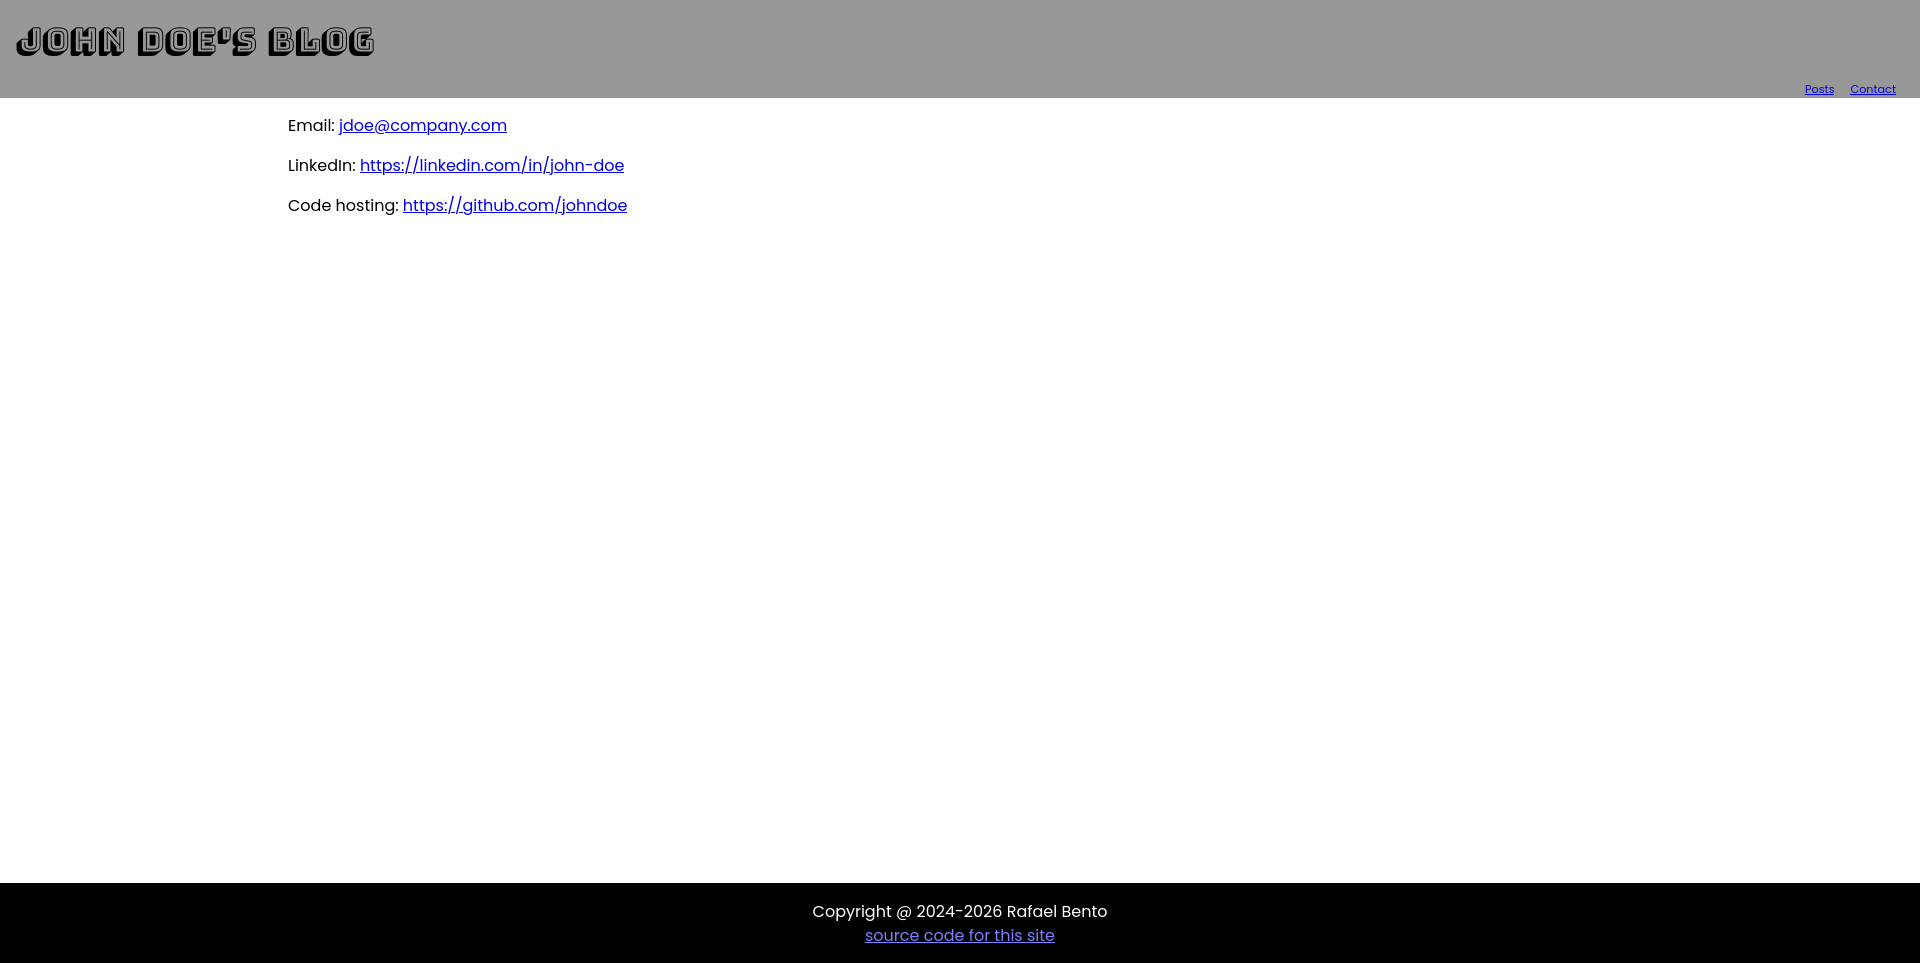
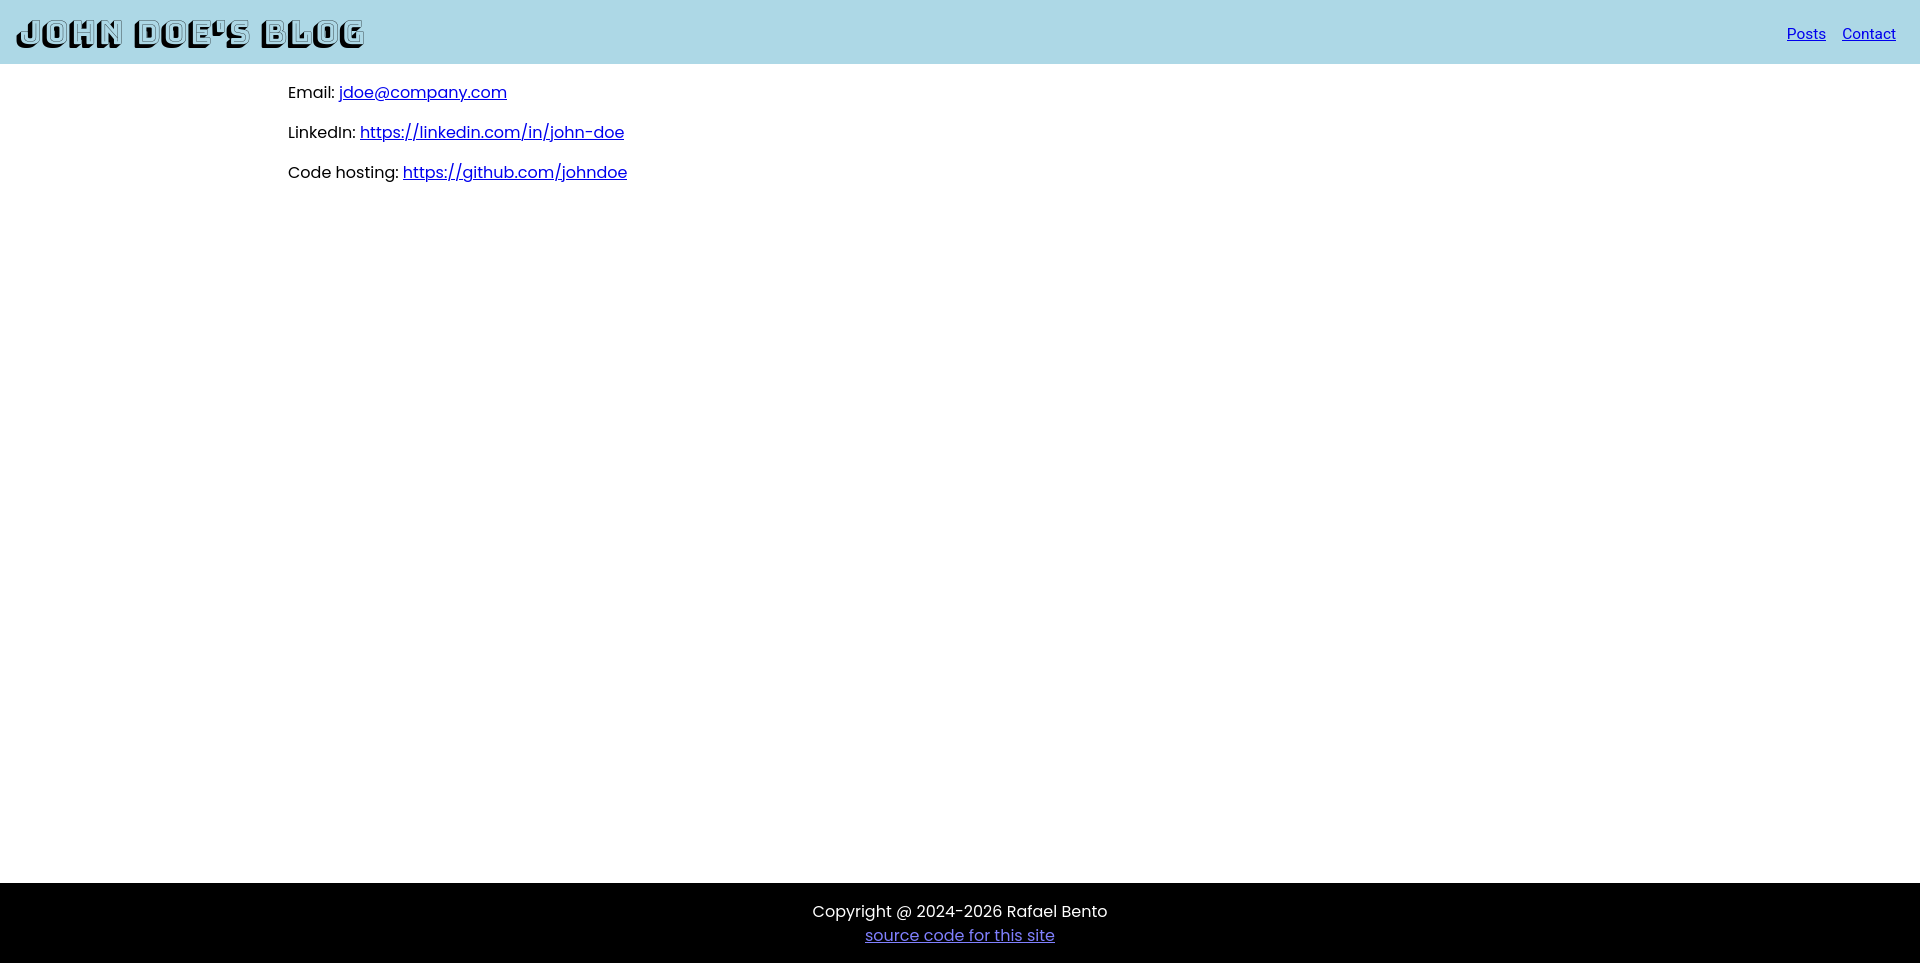
Use mat-toolbar in header

Changed region(s): [[0.0, 0.0, 1.0, 0.2181]]

diff --git a/src/app/components/header/header.html b/src/app/components/header/header.html
@@ -1,5 +1,16 @@
-<h1 class="logo">John Doe's Blog</h1>
-<nav>
-  <span class="toolbar-link"><a routerLink="/" accesskey="P">Posts</a></span>
-  <span class="toolbar-link"><a routerLink="contact" accesskey="C">Contact</a></span>
-</nav>
+<mat-toolbar>
+  <mat-toolbar-row>
+    <span class="header__logo">John Doe's Blog</span>
+    <span class="header__spacer"></span>
+    <nav class="header__nav header__nav--desktop">
+      <a routerLink="/" accesskey="P"><span>Posts</span></a>
+      <a routerLink="contact" accesskey="C"><span>Contact</span></a>
+    </nav>
+  </mat-toolbar-row>
+  <mat-toolbar-row class="header__row--mobile">
+    <nav class="header__nav">
+      <a routerLink="/" accesskey="P"><span>Posts</span></a>
+      <a routerLink="contact" accesskey="C"><span>Contact</span></a>
+    </nav>
+  </mat-toolbar-row>
+</mat-toolbar>

diff --git a/src/app/components/header/header.css b/src/app/components/header/header.css
@@ -1,24 +1,37 @@
-:host {
-  margin: 0;
-  padding: 0 16px;
-  background-color: rgb(152, 152, 152);
-}
-
 @font-face {
   font-family: "Bungee Shade";
   src: url("../../../assets/fonts/BungeeShade-Regular.woff2") format('woff2');
 }
 
-.logo {
+.header__logo {
   font-family: "Bungee Shade", sans-serif;
+  font-size: xx-large;
 }
 
-nav {
-  text-align: right;
+.header__nav a {
   font-size: 70%;
-  white-space: nowrap;
+  padding: 0px 8px;
 }
 
-.toolbar-link a {
-  padding: 0px 8px;
+.header__nav a:hover {
+  color: red;
+}
+
+.header__row--mobile {
+  display: none;
+}
+
+@media (max-width: 768px) {
+  .header__nav--desktop {
+    display: none;
+  }
+
+  .header__row--mobile {
+    display: flex;
+    justify-content: center;
+  }
+}
+
+.header__spacer {
+  flex: 1 1 auto;
 }

diff --git a/src/app/components/header/header.ts b/src/app/components/header/header.ts
@@ -1,9 +1,10 @@
 import { Component } from '@angular/core';
 import { RouterLink } from '@angular/router';
+import {MatToolbarModule} from '@angular/material/toolbar';
 
 @Component({
   selector: 'app-header',
-  imports: [RouterLink],
+  imports: [RouterLink, MatToolbarModule],
   templateUrl: './header.html',
   styleUrl: './header.css'
 })

diff --git a/src/custom-theme.scss b/src/custom-theme.scss
@@ -28,7 +28,7 @@ $blog-theme: mat.define-theme((
 :root {
   @include mat.all-component-themes($blog-theme);
   @include mat.toolbar-overrides((
-    container-background-color: white,
+    container-background-color: lightblue,
     container-text-color: black,
   ));
 }

diff --git a/README.md b/README.md
@@ -10,7 +10,7 @@ A blog site template.
 
 After clone the project, install dependencies with `npm install`. 
 
-Run `ng serve` for a dev server. Navigate to `http://localhost:4200/`. The application will automatically reload if you change any of the source files.
+Run `npm start` for a dev server. Navigate to `http://localhost:4200/`. The application will automatically reload if you change any of the source files.
 
 ## Build
 
